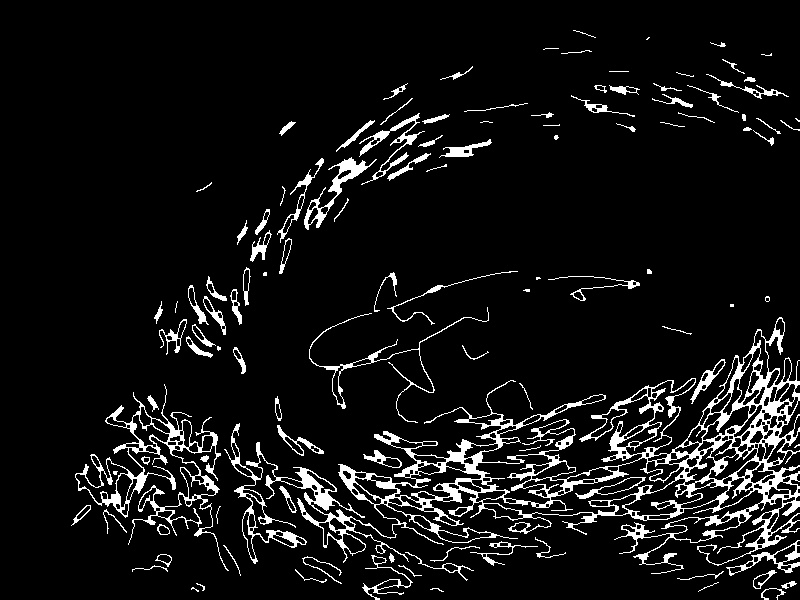
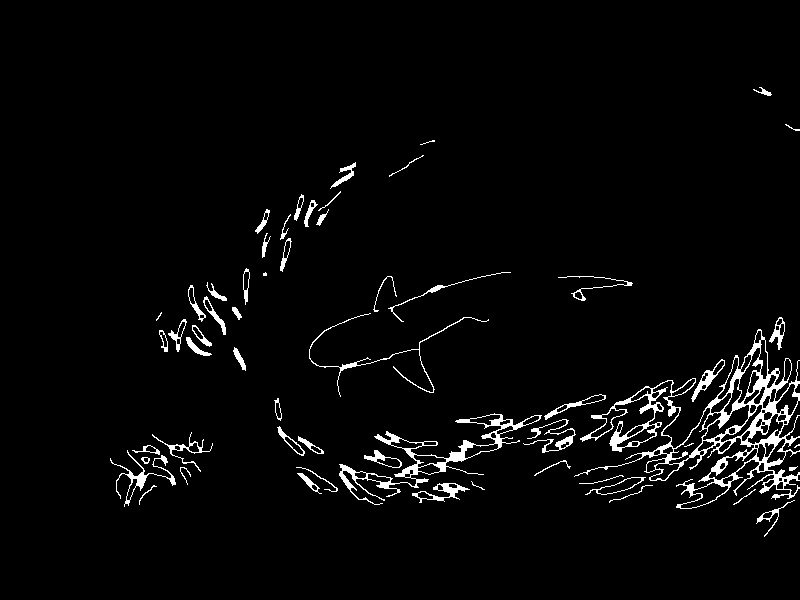
Add CLAHE command line option

diff --git a/main.py b/main.py
@@ -1,3 +1,4 @@
+import argparse
 import sys
 
 from src.analysis import calculate_contour_statistics
@@ -6,6 +7,22 @@ from src.image_loader import load_image
 from src.image_saver import print_save_status, save_image
 from src.preprocessing import apply_clahe, apply_gaussian_blur, apply_morphological_closing, convert_to_grayscale, resize_image
 
+
+def parse_arguments():
+    parser = argparse.ArgumentParser(
+        description="Analyse marine images."
+    )
+
+    parser.add_argument(
+        "--use-clahe",
+        action="store_true",
+        help="Apply CLAHE contrast enhancement before edge detection."
+    )
+
+    return parser.parse_args()
+
+
+args = parse_arguments()
 
 image = load_image("images/sample_marine.jpg")
 
@@ -50,28 +67,34 @@ print_save_status(
     image_label="Grayscale"
 )
 
-enhanced_image = apply_clahe(
-    grayscale_image=grayscale_image,
-    clip_limit=2.0,
-    tile_grid_size=(8, 8)
-)
+preprocessed_image = grayscale_image
 
-print("Image contrast enhanced successfully.")
-print(f"Enhanced image shape: {enhanced_image.shape}")
+if args.use_clahe:
 
-save_successful = save_image(
-    enhanced_image,
-    "output/enhanced_image.jpg"
-)
+    enhanced_image = apply_clahe(
+        grayscale_image=grayscale_image,
+        clip_limit=2.0,
+        tile_grid_size=(8, 8)
+    )
 
-print_save_status(
-    save_successful,
-    image_label="Enhanced"
-)
+    print("Image contrast enhanced successfully.")
+    print(f"Enhanced image shape: {enhanced_image.shape}")
+
+    save_successful = save_image(
+        enhanced_image,
+        "output/enhanced_image.jpg"
+    )
+
+    print_save_status(
+        save_successful,
+        image_label="Enhanced"
+    )
+
+    preprocessed_image = enhanced_image
 
 # Reduce image noise before edge detection
 blurred_image = apply_gaussian_blur(
-    enhanced_image,
+    preprocessed_image,
     kernel_size=5
 )
 
@@ -176,7 +199,7 @@ print_save_status(
 
 original_contour_stats = calculate_contour_statistics(original_contours)
 print(
-    "\nAll contour statistics:\n"
+    "\nOriginal contour statistics:\n"
     f"Count: {original_contour_stats['count']}\n"
     f"Total Area: {original_contour_stats['total_area']}\n"
     f"Average Area: {original_contour_stats['average_area']}\n"
